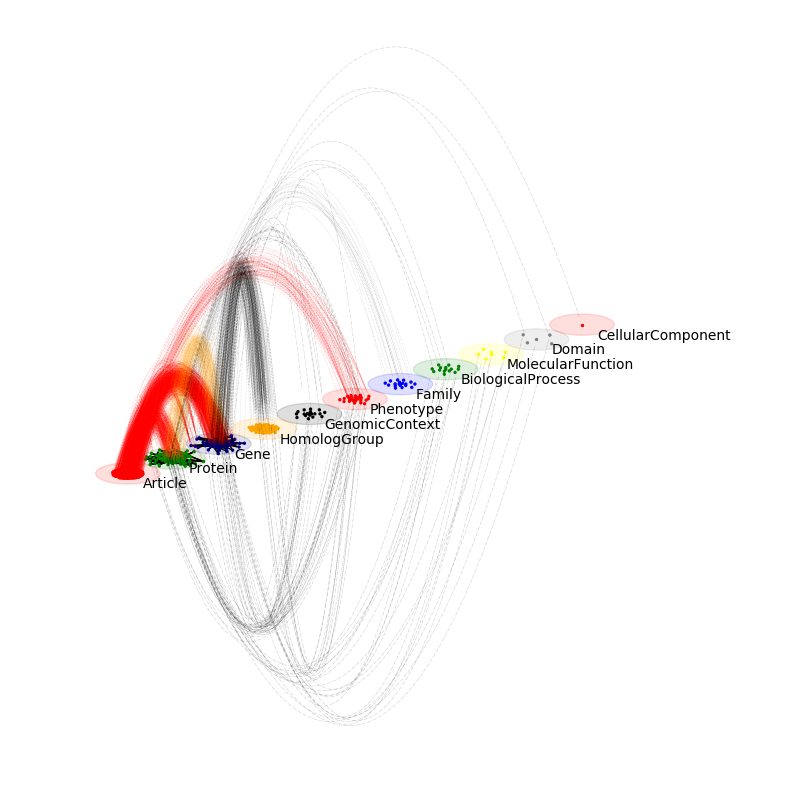
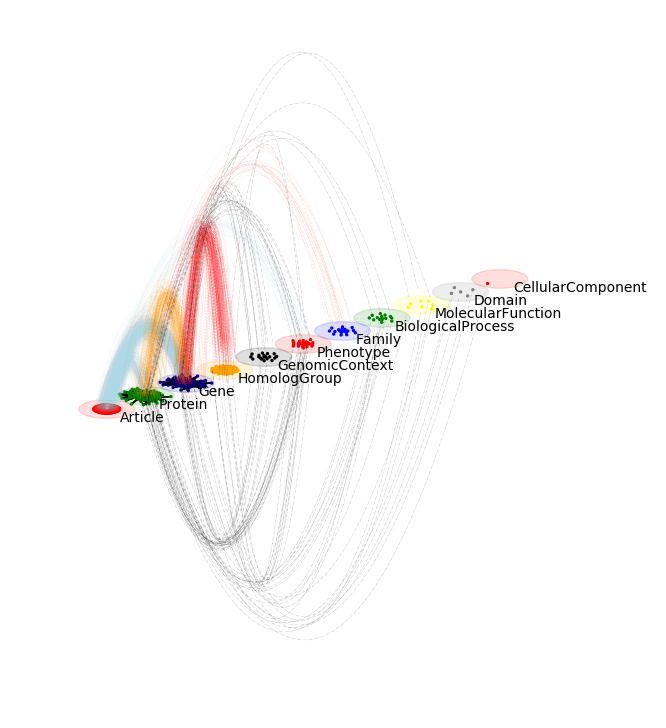
added more relation examples

diff --git a/examples/example_multilayer_visualization.py b/examples/example_multilayer_visualization.py
@@ -21,11 +21,11 @@ for edge_type,edges in multilinks.items():
     #    network_list,multi_edge_tuple,input_type="nodes",linepoints="-.",alphachannel=0.3,linecolor="black",curve_height=1,style="curve2_bezier",linewidth=1,invert=False,linmod="both",resolution=0.1
     print(edge_type)
     if edge_type == "refers_to":
-        draw_multiedges(graphs,edges,alphachannel=0.2,linepoints="--",linecolor="red",curve_height=5,linmod="upper",linewidth=0.4)
+        draw_multiedges(graphs,edges,alphachannel=0.05,linepoints="--",linecolor="lightblue",curve_height=5,linmod="upper",linewidth=0.4)
     elif edge_type == "refers_to":
-        draw_multiedges(graphs,edges,alphachannel=0.2,linepoints=":",linecolor="black",curve_height=5,linmod="upper",linewidth=0.3)
+        draw_multiedges(graphs,edges,alphachannel=0.2,linepoints=":",linecolor="green",curve_height=5,linmod="upper",linewidth=0.3)
     elif edge_type == "belongs_to":
-        draw_multiedges(graphs,edges,alphachannel=0.2,linepoints=":",linecolor="black",curve_height=5,linmod="upper",linewidth=0.4)
+        draw_multiedges(graphs,edges,alphachannel=0.2,linepoints=":",linecolor="red",curve_height=5,linmod="upper",linewidth=0.4)
     elif edge_type == "codes_for":
         draw_multiedges(graphs,edges,alphachannel=0.2,linepoints=":",linecolor="orange",curve_height=5,linmod="upper",linewidth=0.4)
     else:
